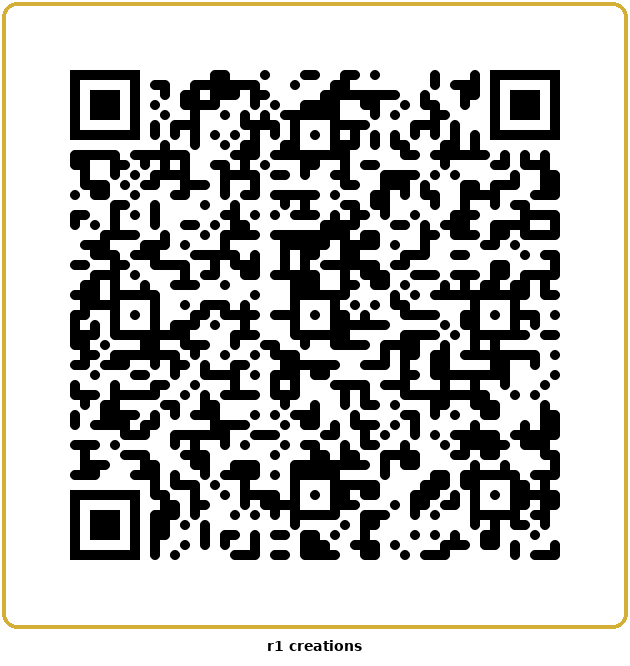
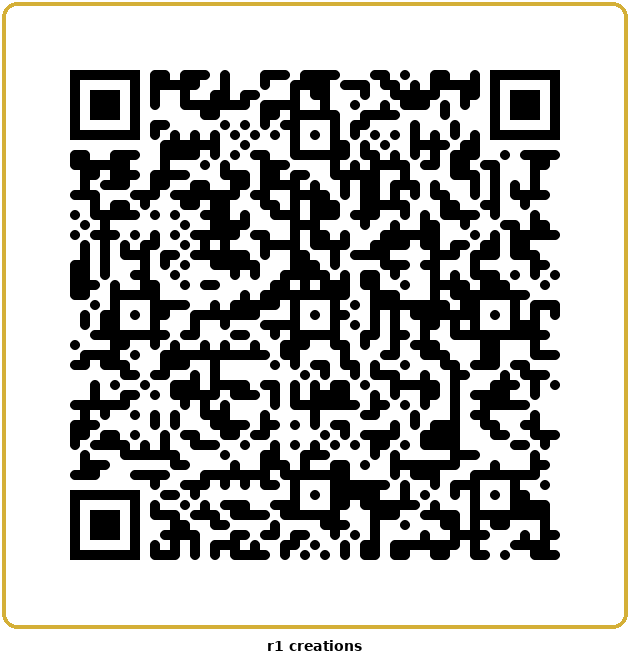
Rename R1 Manor → Clue with R1 everywhere
- Page title, header, title screen
- QR code payload title
- README references

Changed region(s): [[0.0905, 0.0901, 0.9048, 0.8408]]

diff --git a/index.html b/index.html
@@ -3,7 +3,7 @@
 <head>
 <meta charset="UTF-8">
 <meta name="viewport" content="width=240,initial-scale=1,maximum-scale=1,user-scalable=no">
-<title>R1 Manor — Clue</title>
+<title>Clue with R1</title>
 <link rel="preconnect" href="https://fonts.googleapis.com">
 <link href="https://fonts.googleapis.com/css2?family=JetBrains+Mono:wght@400;600;700&family=Inter:wght@400;600;700&display=swap" rel="stylesheet">
 <style>
@@ -135,7 +135,7 @@ button{cursor:pointer;background:none;border:none;font:inherit;color:inherit}
 <body>
 
 <header class="header">
-  <div class="header-title"><span>R1</span> MANOR</div>
+  <div class="header-title"><span>CLUE</span> with R1</div>
   <div class="header-phase" id="phaseLabel">CLUE</div>
   <div class="header-icons">
     <div class="whisper-icon" id="whisperToggle" title="Whisper mode">&#128266;</div>
@@ -282,7 +282,7 @@ function render() {
     m.innerHTML = `
       <div class="screen">
         <div class="title-sub">A MURDER MYSTERY FOR</div>
-        <div class="title-name">R1 MANOR</div>
+        <div class="title-name">CLUE<span style="color:var(--txt)"> with </span>R1</div>
         <div style="font-family:var(--mono);font-size:var(--xs);color:var(--muted);margin:4px 0">
           3–6 players · Pass & play
         </div>

diff --git a/README.md b/README.md
@@ -1,8 +1,8 @@
-# R1 Manor — Clue
+# Clue with R1 — Clue
 
 **v1.0.0** — Digital Clue (murder mystery deduction) built for the Rabbit R1 screen (240x282).
 
-![R1 Manor QR Code](qr-code.png)
+![Clue with R1 QR Code](qr-code.png)
 
 **Live URL:** https://player585.github.io/Clue-with-R1/
 
